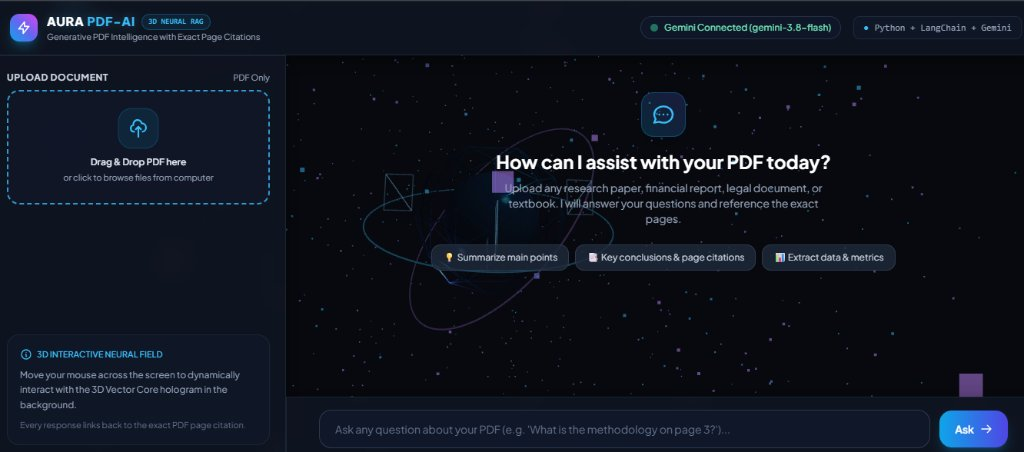
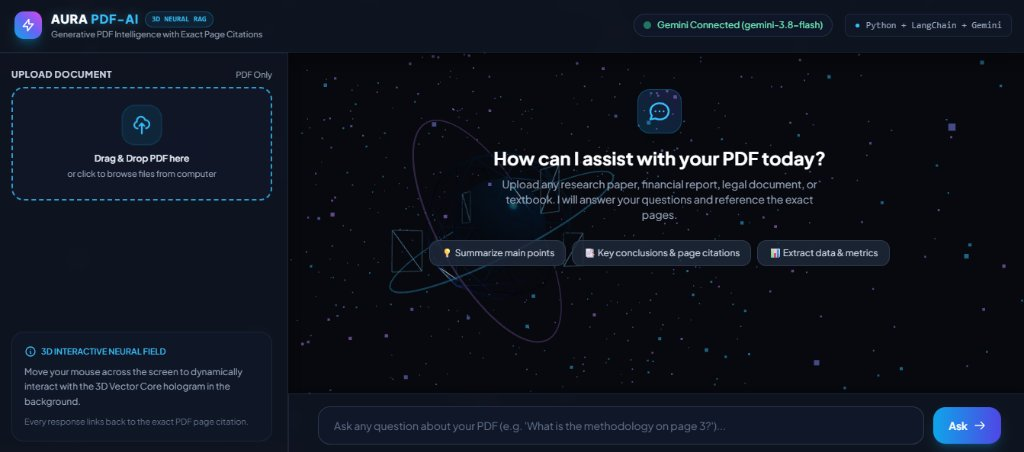
feat: connect live deployed URLs for all projects and update real screenshots

diff --git a/index.html b/index.html
@@ -243,7 +243,7 @@
       <div class="section-header">
         <span class="section-tag"><i class="fa-solid fa-laptop-code"></i> Production Work</span>
         <h2 class="section-title">Featured Projects with <span class="gradient-text">Live Demos</span></h2>
-        <p class="section-desc">Click "Launch Interactive Demo" to test each application directly within this portfolio.</p>
+        <p class="section-desc">Click "Launch Live Demo" or the interactive preview to test each deployed application live.</p>
       </div>
 
       <div class="projects-list">
@@ -268,24 +268,24 @@
               <span>BM25 Retrieval</span>
             </div>
             <div class="project-links">
-              <button class="btn btn-primary btn-sm" onclick="openDemo('rag')">
-                <i class="fa-solid fa-play"></i> Launch Interactive Demo
-              </button>
+              <a href="https://threed-ai-pdf-chatbot.onrender.com/" target="_blank" rel="noopener noreferrer" class="btn btn-primary btn-sm">
+                <i class="fa-solid fa-arrow-up-right-from-square"></i> Launch Live Demo
+              </a>
               <!-- Protected GitHub Access Gate -->
               <button class="btn btn-outline btn-sm" onclick="openGateModal('github', 'https://github.com/ritammanna/3d-ai-pdf-chatbot', 'AI 3D PDF Chatbot Repo')">
                 <i class="fa-brands fa-github"></i> View GitHub Repo
               </button>
             </div>
           </div>
-          <div class="project-preview" onclick="openDemo('rag')">
+          <div class="project-preview" onclick="window.open('https://threed-ai-pdf-chatbot.onrender.com/', '_blank')">
             <div class="preview-mockup">
               <div class="mockup-header">
                 <span class="dot red"></span><span class="dot yellow"></span><span class="dot green"></span>
-                <span class="mockup-title">rag-neural-engine.local:8000</span>
+                <span class="mockup-title">threed-ai-pdf-chatbot.onrender.com</span>
               </div>
               <div class="mockup-image-wrap">
-                <img src="assets/project_ai.svg" alt="AI 3D PDF Chatbot UI" class="mockup-img">
-                <div class="preview-overlay-tag"><i class="fa-solid fa-play"></i> Interactive Demo</div>
+                <img src="assets/project_ai.jpg" alt="AI 3D PDF Chatbot UI" class="mockup-img">
+                <div class="preview-overlay-tag"><i class="fa-solid fa-arrow-up-right-from-square"></i> Live Demo</div>
               </div>
             </div>
           </div>
@@ -311,24 +311,24 @@
               <span>REST APIs</span>
             </div>
             <div class="project-links">
-              <button class="btn btn-primary btn-sm" onclick="openDemo('recipe')">
-                <i class="fa-solid fa-play"></i> Launch Interactive Demo
-              </button>
+              <a href="https://rit-bite-recipe-app.vercel.app/" target="_blank" rel="noopener noreferrer" class="btn btn-primary btn-sm">
+                <i class="fa-solid fa-arrow-up-right-from-square"></i> Launch Live Demo
+              </a>
               <!-- Protected GitHub Access Gate -->
               <button class="btn btn-outline btn-sm" onclick="openGateModal('github', 'https://github.com/ritammanna/RitBite-recipe-app', 'RitBite Recipe App Repo')">
                 <i class="fa-brands fa-github"></i> View GitHub Repo
               </button>
             </div>
           </div>
-          <div class="project-preview" onclick="openDemo('recipe')">
+          <div class="project-preview" onclick="window.open('https://rit-bite-recipe-app.vercel.app/', '_blank')">
             <div class="preview-mockup">
               <div class="mockup-header">
                 <span class="dot red"></span><span class="dot yellow"></span><span class="dot green"></span>
-                <span class="mockup-title">ritbite-discovery.app</span>
+                <span class="mockup-title">rit-bite-recipe-app.vercel.app</span>
               </div>
               <div class="mockup-image-wrap">
-                <img src="assets/project_recipe.svg" alt="RitBite Recipe App UI" class="mockup-img">
-                <div class="preview-overlay-tag"><i class="fa-solid fa-play"></i> Interactive Demo</div>
+                <img src="assets/project_recipe.png" alt="RitBite Recipe App UI" class="mockup-img">
+                <div class="preview-overlay-tag"><i class="fa-solid fa-arrow-up-right-from-square"></i> Live Demo</div>
               </div>
             </div>
           </div>
@@ -354,28 +354,32 @@
               <span>JWT Auth</span>
             </div>
             <div class="project-links">
-              <button class="btn btn-primary btn-sm" onclick="openDemo('job')">
-                <i class="fa-solid fa-play"></i> Launch Interactive Demo
-              </button>
+              <a href="https://jobconnect-portal-m6nc.vercel.app/" target="_blank" rel="noopener noreferrer" class="btn btn-primary btn-sm">
+                <i class="fa-solid fa-arrow-up-right-from-square"></i> Launch Live Demo
+              </a>
               <!-- Protected GitHub Access Gate -->
               <button class="btn btn-outline btn-sm" onclick="openGateModal('github', 'https://github.com/ritammanna/job-website', 'Job Portal Repo')">
                 <i class="fa-brands fa-github"></i> View GitHub Repo
               </button>
             </div>
           </div>
-          <div class="project-preview" onclick="openDemo('job')">
+          <div class="project-preview" onclick="window.open('https://jobconnect-portal-m6nc.vercel.app/', '_blank')">
             <div class="preview-mockup">
               <div class="mockup-header">
                 <span class="dot red"></span><span class="dot yellow"></span><span class="dot green"></span>
-                <span class="mockup-title">jobportal-recruit.io</span>
+                <span class="mockup-title">jobconnect-portal-m6nc.vercel.app</span>
               </div>
               <div class="mockup-image-wrap">
-                <img src="assets/project_job.svg" alt="Job Portal UI" class="mockup-img">
-                <div class="preview-overlay-tag"><i class="fa-solid fa-play"></i> Interactive Demo</div>
+                <img src="assets/project_job.jpg" alt="Job Portal UI" class="mockup-img">
+                <div class="preview-overlay-tag"><i class="fa-solid fa-arrow-up-right-from-square"></i> Live Demo</div>
               </div>
             </div>
           </div>
         </div>
+
+      </div>
+    </div>
+  </section>
 
       </div>
     </div>
@@ -473,7 +477,7 @@
       <div class="section-header">
         <span class="section-tag"><i class="fa-regular fa-envelope"></i> Get In Touch</span>
         <h2 class="section-title">Connect with <span class="gradient-text">Ritam Manna</span></h2>
-        <p class="section-desc">Direct contact information is protected against scrapers. Use the form below to connect or request my full CV.</p>
+        <p class="section-desc">Feel free to reach out directly using the form below or request my full CV.</p>
       </div>
 
       <div class="contact-grid">

diff --git a/app.js b/app.js
@@ -411,6 +411,16 @@ const demoData = {
 };
 
 function openDemo(type) {
+  const liveUrls = {
+    'rag': 'https://threed-ai-pdf-chatbot.onrender.com/',
+    'recipe': 'https://rit-bite-recipe-app.vercel.app/',
+    'job': 'https://jobconnect-portal-m6nc.vercel.app/'
+  };
+  if (liveUrls[type]) {
+    window.open(liveUrls[type], '_blank');
+    return;
+  }
+
   const modal = document.getElementById('demoModal');
   const demoTitle = document.getElementById('demoTitle');
   const demoIcon = document.getElementById('demoIcon');
